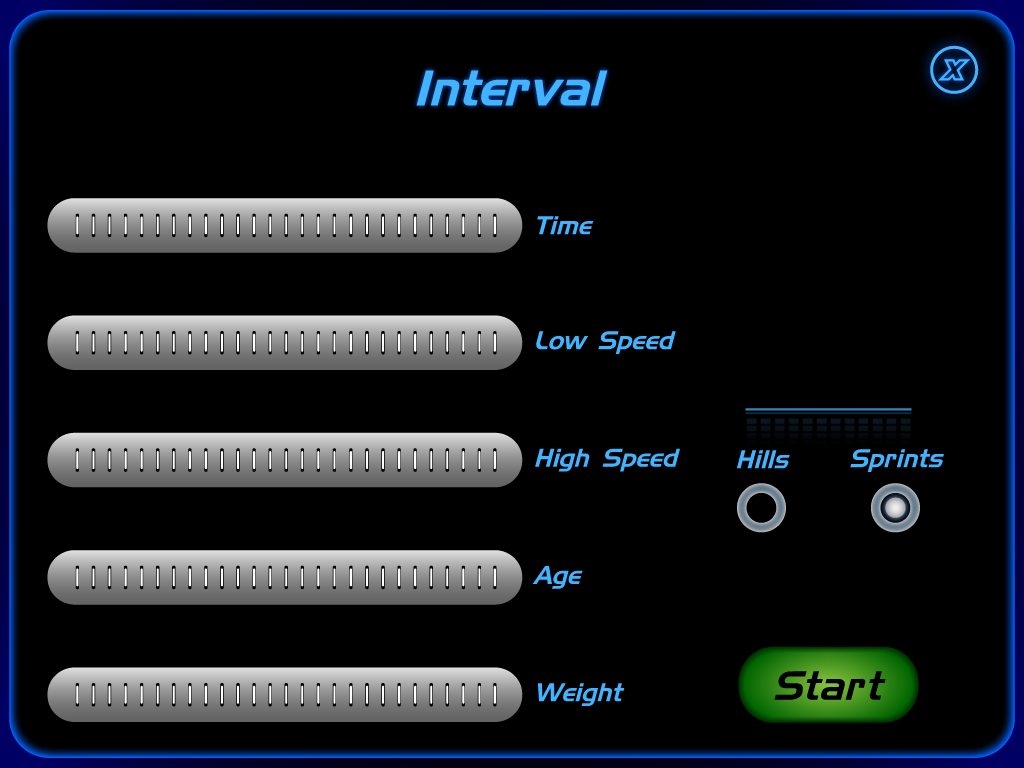
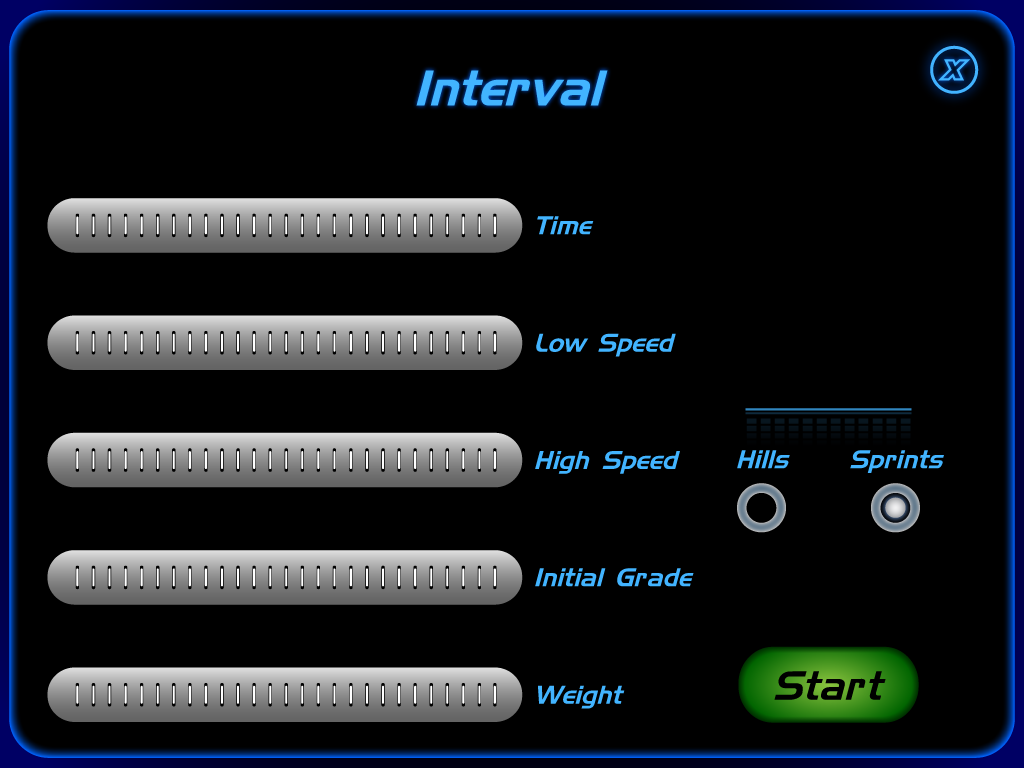
Updated the interval screen.

diff --git a/TreadmillUI/trunk/APP/intervalscreen.cpp b/TreadmillUI/trunk/APP/intervalscreen.cpp
@@ -16,7 +16,8 @@ IntervalScreen::IntervalScreen(QWidget *parent) :
     ,highGradeSlider(this)
     ,lowSpeedSlider(this)
     ,highSpeedSlider(this)
-    ,ageSlider(this)
+    ,initialSpeedSlider(this)
+    ,initialGradeSlider(this)
     ,weightSlider(this)
 {
     ui->setupUi(this);
@@ -26,7 +27,8 @@ IntervalScreen::IntervalScreen(QWidget *parent) :
     highGradeSlider.move(SLIDER_X, SLIDER3_Y);
     lowSpeedSlider.move(SLIDER_X, SLIDER2_Y);
     highSpeedSlider.move(SLIDER_X, SLIDER3_Y);
-    ageSlider.move(SLIDER_X, SLIDER4_Y);
+    initialGradeSlider.move(SLIDER_X, SLIDER4_Y);
+    initialSpeedSlider.move(SLIDER_X, SLIDER4_Y);
     weightSlider.move(SLIDER_X, SLIDER5_Y);
 
     on_invisibleButton_hills_pressed();
@@ -45,9 +47,11 @@ void IntervalScreen::on_invisibleButton_hills_pressed()
 
     lowGradeSlider.show();
     highGradeSlider.show();
+    initialSpeedSlider.show();
 
     lowSpeedSlider.hide();
     highSpeedSlider.hide();
+    initialGradeSlider.hide();
 
     updateHistoryFromGrades();
 }
@@ -58,9 +62,11 @@ void IntervalScreen::on_invisibleButton_4_pressed()
 
     lowGradeSlider.hide();
     highGradeSlider.hide();
+    initialSpeedSlider.hide();
 
     lowSpeedSlider.show();
     highSpeedSlider.show();
+    initialGradeSlider.show();
 
     updateHistoryFromSpeeds();
 }
@@ -99,7 +105,6 @@ void IntervalScreen::on_invisibleButton_hills_2_pressed()
 void IntervalScreen::on_invisibleButton_hills_3_pressed()
 {
     int minutes = timeSlider.value;
-    int age = ageSlider.value;
     int weight = weightSlider.value;
 
     Workout* workout;
@@ -108,14 +113,14 @@ void IntervalScreen::on_invisibleButton_hills_3_pressed()
         int lowSpeed = lowSpeedSlider.value;
         int highSpeed = highSpeedSlider.value;
 
-        workout = Workout::createDynamicSpeedWorkout("Speed Interval", minutes, lowSpeed, highSpeed, age, weight);
+        workout = Workout::createDynamicSpeedWorkout("Speed Interval", minutes, lowSpeed, highSpeed, initialGradeSlider.value, weight);
     }
     else{
 
         int lowGrade = lowGradeSlider.value;
         int highGrade = highGradeSlider.value;
 
-        workout = Workout::createDynamicGradeWorkout("Grade Interval", minutes, lowGrade, highGrade, age, weight);
+        workout = Workout::createDynamicGradeWorkout("Grade Interval", minutes, lowGrade, highGrade, initialSpeedSlider.value, weight);
     }
 
 

diff --git a/TreadmillUI/trunk/APP/workout.cpp b/TreadmillUI/trunk/APP/workout.cpp
@@ -37,11 +37,15 @@ Workout* Workout::createWorkout(QString name, float speed, float grade, int minu
     return workout;
 }
 
-Workout* Workout::createDynamicSpeedWorkout(QString name, int minutes, float lowPercentage , float highPercentage, int age, int weight){
-
+Workout* Workout::createHeartRateWorkout(QString name, int minutes, float lowPercentage , float highPercentage, int age, int weight){
     float range = MAX_SPEED - MIN_SPEED;
     float lowSpeed = MIN_SPEED + lowPercentage*range;
     float highSpeed = MIN_SPEED + highPercentage*range;
+
+    return createDynamicSpeedWorkout(name, minutes, lowSpeed, highSpeed, age, weight);
+}
+
+Workout* Workout::createDynamicSpeedWorkout(QString name, int minutes, int lowSpeed , int highSpeed, int initialGrade, int weight){
 
     Workout* workout = new Workout(name);
     QList<Step*> *steps = workout->steps;
@@ -51,7 +55,7 @@ Workout* Workout::createDynamicSpeedWorkout(QString name, int minutes, float low
 
     int sprints = endTime / sprintLength;
 
-    steps->append(new ChangeGradeStep(0));
+    steps->append(new ChangeGradeStep(initialGrade));
 
     for(int i=0; i< sprints; i++){
 
@@ -127,7 +131,7 @@ Workout* Workout::createIntensityWorkout(QString name, int minutes, int starting
     return workout;
 }
 
-Workout* Workout::createDynamicGradeWorkout(QString name, int minutes, int lowGrade , int highGrade, int age, int weight){
+Workout* Workout::createDynamicGradeWorkout(QString name, int minutes, int lowGrade , int highGrade, int initialSpeed, int weight){
 
     Workout* workout = new Workout(name);
     QList<Step*> *steps = workout->steps;
@@ -137,7 +141,7 @@ Workout* Workout::createDynamicGradeWorkout(QString name, int minutes, int lowGr
 
     int sprints = endTime / sprintLength;
 
-    steps->append(new ChangeSpeedStep(0));
+    steps->append(new ChangeSpeedStep(initialSpeed));
 
     for(int i=0; i< sprints; i++){
 

diff --git a/TreadmillUI/trunk/APP/workout.h b/TreadmillUI/trunk/APP/workout.h
@@ -17,7 +17,8 @@ public:
     static Workout* createWorkout(QString name, float speed, float grade, int minutes);
     static Workout* createDynamicGradeWorkout(QString name, int minutes, int lowGrade , int highGrade, int age, int weight);
     static Workout* createIntensityWorkout(QString name, int minutes, int initialSpeed, double intensityPercent, int weight);
-    static Workout* createDynamicSpeedWorkout(QString name, int minutes, float lowPercentage , float highPercentage, int age, int weight);
+    static Workout* createDynamicSpeedWorkout(QString name, int minutes, int lowSpeed , int lowSpeed, int age, int weight);
+    static Workout* createHeartRateWorkout(QString name, int minutes, float lowPercentage , float highPercentage, int age, int weight);
 };
 
 #endif // WORKOUT_H

diff --git a/TreadmillUI/trunk/APP/heartratescreen.cpp b/TreadmillUI/trunk/APP/heartratescreen.cpp
@@ -109,7 +109,7 @@ void HeartRateScreen::on_invisibleButton_6_pressed()
         highPercentage = lowPercentage;
     }
 
-    Workout* workout = Workout::createDynamicSpeedWorkout("Heart Rate", minutes, lowPercentage, highPercentage, age, weight);
+    Workout* workout = Workout::createHeartRateWorkout("Heart Rate", minutes, lowPercentage, highPercentage, age, weight);
     Screens::show(new MainScreen(0, workout));
 
     close();

diff --git a/TreadmillUI/trunk/APP/intervalscreen.h b/TreadmillUI/trunk/APP/intervalscreen.h
@@ -33,7 +33,8 @@ private:
     GradeSliderWidget highGradeSlider;
     SpeedSliderWidget lowSpeedSlider;
     SpeedSliderWidget highSpeedSlider;
-    AgeSliderWidget ageSlider;
+    SpeedSliderWidget initialSpeedSlider;
+    GradeSliderWidget initialGradeSlider;
     WeightSliderWidget weightSlider;
 
     void updateHistoryFromSpeeds();

diff --git a/TreadmillUI/trunk/APP/gradesliderwidget.cpp b/TreadmillUI/trunk/APP/gradesliderwidget.cpp
@@ -1,6 +1,7 @@
 #include "gradesliderwidget.h"
+#include "utils.h"
 
 GradeSliderWidget::GradeSliderWidget(QWidget *parent) :
-        SliderWidget(parent, 1, 30)
+        SliderWidget(parent, 1, MAX_GRADE)
 {
 }

diff --git a/TreadmillUI/trunk/APP/speedsliderwidget.cpp b/TreadmillUI/trunk/APP/speedsliderwidget.cpp
@@ -1,6 +1,7 @@
 #include "speedsliderwidget.h"
+#include "utils.h"
 
 SpeedSliderWidget::SpeedSliderWidget(QWidget *parent) :
-        SliderWidget(parent, 1, 12)
+        SliderWidget(parent, 1, MAX_SPEED)
 {
 }
